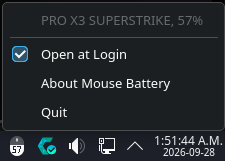
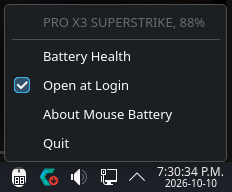
Update the README and pictures for 1.2.0
- Replace the tray picture with one from the 1.2.0 menu, taken on the owner's panel
- Add two battery window pictures, rendered offscreen without KWin's blur from a demo history of two made up mice
- Describe the health box, the status figures, and the title bar icon as the code does
- Say when the hours of use figure shows and which mice get no drain figures
- Add the battery window to the software center listing
- Mention the sleep check fade and the 30 minute wait in the changelog

Changed region(s): [[0.0, 0.0, 1.0, 0.9938], [0.1867, 0.6522, 0.3111, 0.7764]]

diff --git a/README.md b/README.md
@@ -40,7 +40,7 @@ The package also installs a udev rule that hands your receiver or cable to Mouse
 
 Installing doesn't start Mouse Battery, so open "Mouse Battery" from your app menu once and its icon shows up in the tray. From the next login on it starts by itself, for every account on the computer, whether or not that account ever opened it, until that account turns off "Open at Login" in its menu.
 
-The icon is a mouse that fills up with the battery level and shows the percentage. The fill turns green while the mouse charges, red at 20% or below, and gray while the mouse sleeps. The menu lists every mouse it found, for example:
+The icon is a mouse that fills up with the battery level and shows the percentage, which it leaves out when the tray draws the icon smaller than 22 pixels. The fill turns green while the mouse is on its charger, charging or full, red at 20% or below, and gray while the mouse sleeps. The menu lists every mouse it found, for example:
 
 - `PRO X3 SUPERSTRIKE, 69%`
 - `PRO X3 SUPERSTRIKE, charging, 82%`
@@ -50,9 +50,13 @@ Opening the menu takes a fresh reading from each mouse it reads over HID++, whil
 
 ## Battery health
 
-Click the tray icon, or pick "Battery Health" from its menu, to open the battery window. It shows the mouse, its level, a health line, a level chart over the last 24 hours, 7 days, or 30 days with each bar colored by state (blue otherwise, green with a dot for a charge, red at 20% or below), how many hours a charge lasts and how fast it charges month by month, and the number of charge cycles. The chart keeps the range you picked the next time it opens. With two or more mice a sidebar lists them all. The window's title bar icon follows the shown mouse in the tray icon's colors, white in use, green while charging, red at 20% or below, and gray while asleep.
+Click the tray icon, or pick "Battery Health" from its menu, to open the battery window. It shows the mouse with its level and status, a health box of up to three lines, a level chart over the last 24 hours, 7 days, or 30 days with each bar colored by state (blue otherwise, green with a dot for a charge, red at 20% or below), how many hours a charge lasts and how fast it charges month by month, the number of charge cycles, when the mouse was last charged and on which charger, and its charging speed. Once it has measured enough of the current discharge or charge, the status also says about how many hours are left, or about how long until the mouse is full. The chart keeps the range you picked the next time it opens. With two or more mice a sidebar lists them all. The window's title bar icon follows the shown mouse, white in use, green on its charger, red at 20% or below, gray while asleep, and an empty outline before its first reading.
 
-The battery service saves each mouse's charges and discharges in `/var/lib/logitech-mouse-battery/history.sqlite3`, about 20 MB after 10 years of heavy use. It saves a row when a reading changes, and also when a mouse wakes, falls asleep, or drops out of sight, and it asks a mouse for no more readings than before, except that a mouse whose wireless status lookup didn't answer gets the lookup asked again with its next read, battery event, or reconnect until it answers, and after three failed tries a read or battery event asks at most once a minute, with that wait doubling up to an hour. The health line compares how fast the battery drains and charges now with how it did when tracking began, stretch by stretch of the battery, and says when a charge lasts 15% less or charging takes 15% longer than it used to. That needs about 42 discharges first, so until then the health box shows how many hours of use a full charge gives and how many more charges the wear check needs. A mouse that doesn't give a serial number gets no history, and one that reports only a rough level or a voltage gets no drain or charge figures.
+![The battery window with the level chart](docs/window-level.png)
+
+![The battery window with the hours per charge chart](docs/window-hours.png)
+
+The battery service saves each mouse's charges and discharges in `/var/lib/logitech-mouse-battery/history.sqlite3`, about 20 MB after 10 years of heavy use. It saves a row when a reading changes, and also when a mouse wakes, falls asleep, or drops out of sight, and it asks a mouse for no more readings than before, except that a mouse whose wireless status lookup didn't answer gets the lookup asked again with its next read, battery event, or reconnect until it answers, and after three failed tries a read or battery event asks at most once a minute, with that wait doubling up to an hour. The health line compares how fast the battery drains and charges now with how it did when tracking began, stretch by stretch of the battery, and says when a charge lasts 15% less or charging takes 15% longer than it used to. That needs about 42 discharges first, and about 42 charges on the same charger for the charging check. Until then the health box says it's still learning, and once three stretches of the battery each have a measured discharge, it says how many more charges the wear check needs. Once a month has five measured drops, the box also says how many hours of use a full charge gives, and the hours per charge chart shows that month. A drop in a discharge's first 30 minutes doesn't count, since a mouse's reading tends to fall fast for a few minutes after it comes off the charger. After a charge, the box says how long charging from 20% to 80% takes on that charger. A charging error the mouse reported in the last week, or a last charge that ran slow for most of its readings, comes first. A mouse that doesn't give a serial number gets no history. One that reports only a rough level or a voltage gets no drain or charge figures, and one that doesn't say when it wakes, or that reports its level in steps of 5% or more, gets no drain figures, although its charging can still be measured.
 
 Any account on the computer can read the history through the service, as it can read the battery levels, and the history shows when each mouse was in use.
 
@@ -64,7 +68,7 @@ GNOME's top bar has no system tray of its own, so Mouse Battery needs the AppInd
 
 ## Check from a terminal
 
-`logitech-mouse-battery check` prints each mouse it can read with its battery, and says what to do when it can't read one. When it can't reach the battery service it names the error, and when the service turns its read down it says the readings may be old.
+`logitech-mouse-battery check` prints each mouse it can read with its battery, and says what to do when it can't read one. When it can't reach the battery service it names the error, and when the service turns its read down it says the readings may be old. `logitech-mouse-battery --version` prints the installed version.
 
 ## Which mice work
 
@@ -138,7 +142,7 @@ The app is the flat set of modules in `src/`, which the packages install side by
 - `upower.py` reads the mice the kernel drives through UPower, for the tray and the window and for the service's history.
 - `lowBattery.py` decides when a mouse gets a low battery warning.
 - `notify.py` sends desktop notifications.
-- `dbusCalls.py` makes the tray's D-Bus calls to the desktop and to UPower with a timeout, answering through a callback so a slow peer never holds it still. It also makes the blocking calls, each with a timeout, for the terminal check (to the battery service and UPower) and for the notice a second tray sends before it quits, and it unwraps the values in a reply. `serviceClient.py` makes the tray's own calls to the battery service, with its own callbacks and timeout.
+- `dbusCalls.py` makes the tray's D-Bus calls to the desktop and to UPower with a timeout, answering through a callback so a slow peer never holds it still. It also makes the blocking calls, each with a timeout, for the terminal check (to the battery service and UPower) and for the notice a second tray sends before it quits, and it unwraps the values in a reply. `serviceClient.py` makes the tray's own state and read calls to the battery service with its own callbacks and timeout, while its history and chart level calls go through `dbusCalls.py`.
 - `panelColor.py` works out the color the icon is drawn in from the desktop's theme, and reads the desktop portal's color scheme and reduced motion settings, which the window follows too.
 - `icon.py` draws the tray icon and the mouse picture in the battery window, and picks the window's title bar icon.
 - `autostart.py` turns Open at Login on and off.

diff --git a/CHANGELOG.md b/CHANGELOG.md
@@ -6,11 +6,11 @@ This file lists the changes in each release of Mouse Battery, newest first.
 
 ### Added
 
-- A battery window opens when you click the tray icon or pick "Battery Health" from its menu, with the mouse, its level, and a sidebar when you have more than one mouse, and it fits small screens, comes back when you click the tray icon while it's minimized, and moves smoothly when you switch charts, ranges, or mice or open its sleep menu. Its controls work from the keyboard and a screen reader, and a screen reader also reads each chart's newest figure or the message shown in its place.
+- A battery window opens when you click the tray icon or pick "Battery Health" from its menu, with the mouse, its level, and a sidebar when you have more than one mouse, and it fits small screens, comes back when you click the tray icon while it's minimized, and moves smoothly when you switch charts, ranges, or mice, open its sleep menu, or pick a new sleep check. Its controls work from the keyboard and a screen reader, and a screen reader also reads each chart's newest figure or the message shown in its place.
 - The window shows a level chart for the last 24 hours, 7 days, or 30 days, with each bar colored by state (blue otherwise, green with a dot for a charge, red at 20% or below), and it remembers the range you picked.
 - The hours per charge and charging speed charts start at zero with round tick labels, so a small change looks small.
 - The window shows battery health, including how many hours a charge lasts, how fast it charges month by month, and the number of charge cycles.
-- The health box shows how many hours of use a full charge gives and how long charging from 20% to 80% takes, counts down the charges left until the wear check, and warns when a charge lasts 15% less, or charging takes 15% longer, than it used to.
+- The health box shows how many hours of use a full charge gives, once a month has five measured drops past a discharge's first 30 minutes, and how long charging from 20% to 80% takes, counts down the charges left until the wear check, and warns when a charge lasts 15% less, or charging takes 15% longer, than it used to.
 - The battery service now saves each mouse's charges and discharges, so the history keeps growing while the window is closed, and it survives a crash, a power loss, a clock change, a service restart, and a mouse moving between UPower and direct reading, while a damaged history file is moved aside and started fresh. Removing the package leaves the history in place, and the README says how to delete it.
 - Any local account can read the saved history through the service, with its own read limits, as the README says.
 - The history takes in only so many new mice at a time, so a flood of new devices can't fill it.
